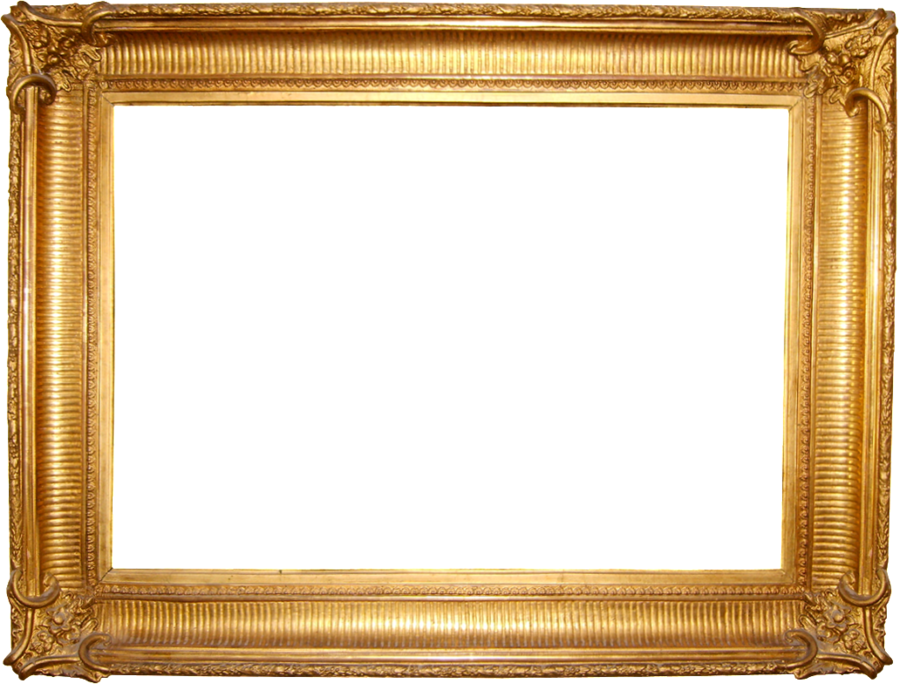
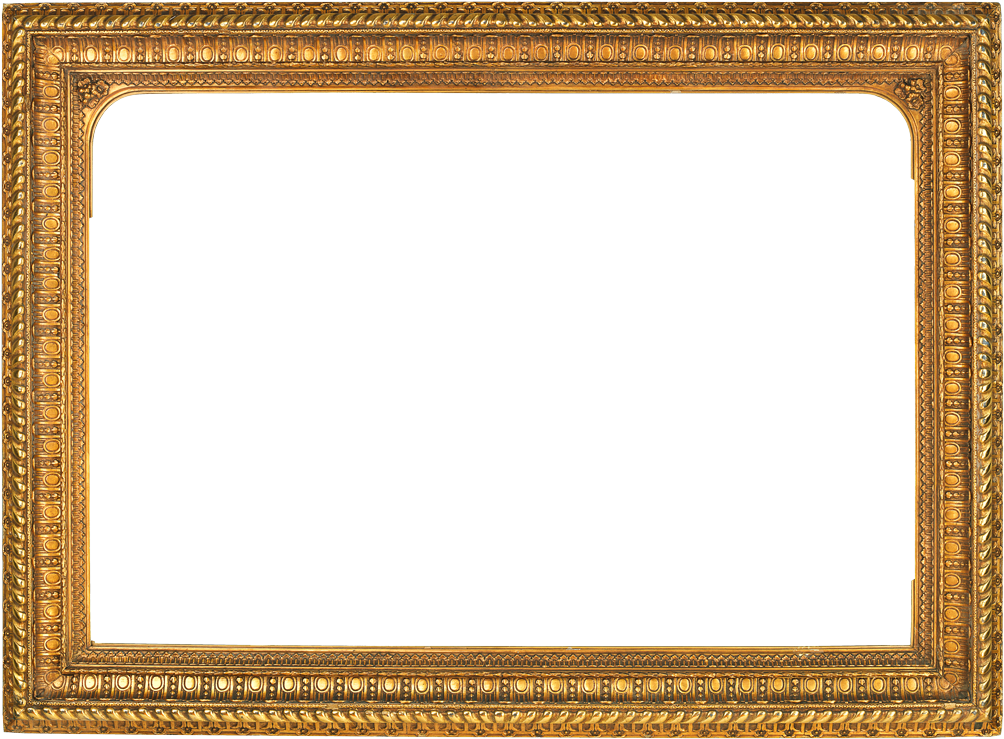
added a frame and background color slider

diff --git a/sketch.js b/sketch.js
@@ -8,16 +8,20 @@ function preload(){
 
 //only runs once
 function setup() {
-createCanvas(img.width, img.height);
+createCanvas(750, 500);
 
 //making a slider
 sliderPoint = createSlider(0, 20, 0);
-sliderPoint.position(750, 600);
+sliderPoint.position(800, 585);
 sliderPoint.style('width', '200px');
 
+sliderPoint.style ('z-index: +10')
+
 sliderBackground = createSlider(0, 255, 255);
-sliderBackground.position(500, 600);
+sliderBackground.position(450, 585);
 sliderBackground.style('width', '200px');
+
+sliderBackground.style ('z-index: +10')
 }
 
 // loops endless

diff --git a/style.css b/style.css
@@ -6,8 +6,15 @@
   box-sizing: border-box;
 }
 
+.frame {
+position: absolute;
+margin: 0 18em;
+width: 60%;
+z-index: +1;
+}
+
 canvas {
-  display: block;
-  margin: 1em auto 0;
+  margin: 5em 22em;
+  position: absolute;
   border-radius: 1em;
 }

diff --git a/index.html b/index.html
@@ -12,5 +12,6 @@
 </head>
 <body>
   <!-- You don't really have to edit this index.html file since p5.js will create the canvas.--> 
+  <img src="images/frame.png" class="frame" alt="Frame">
 </body>
 </html>
